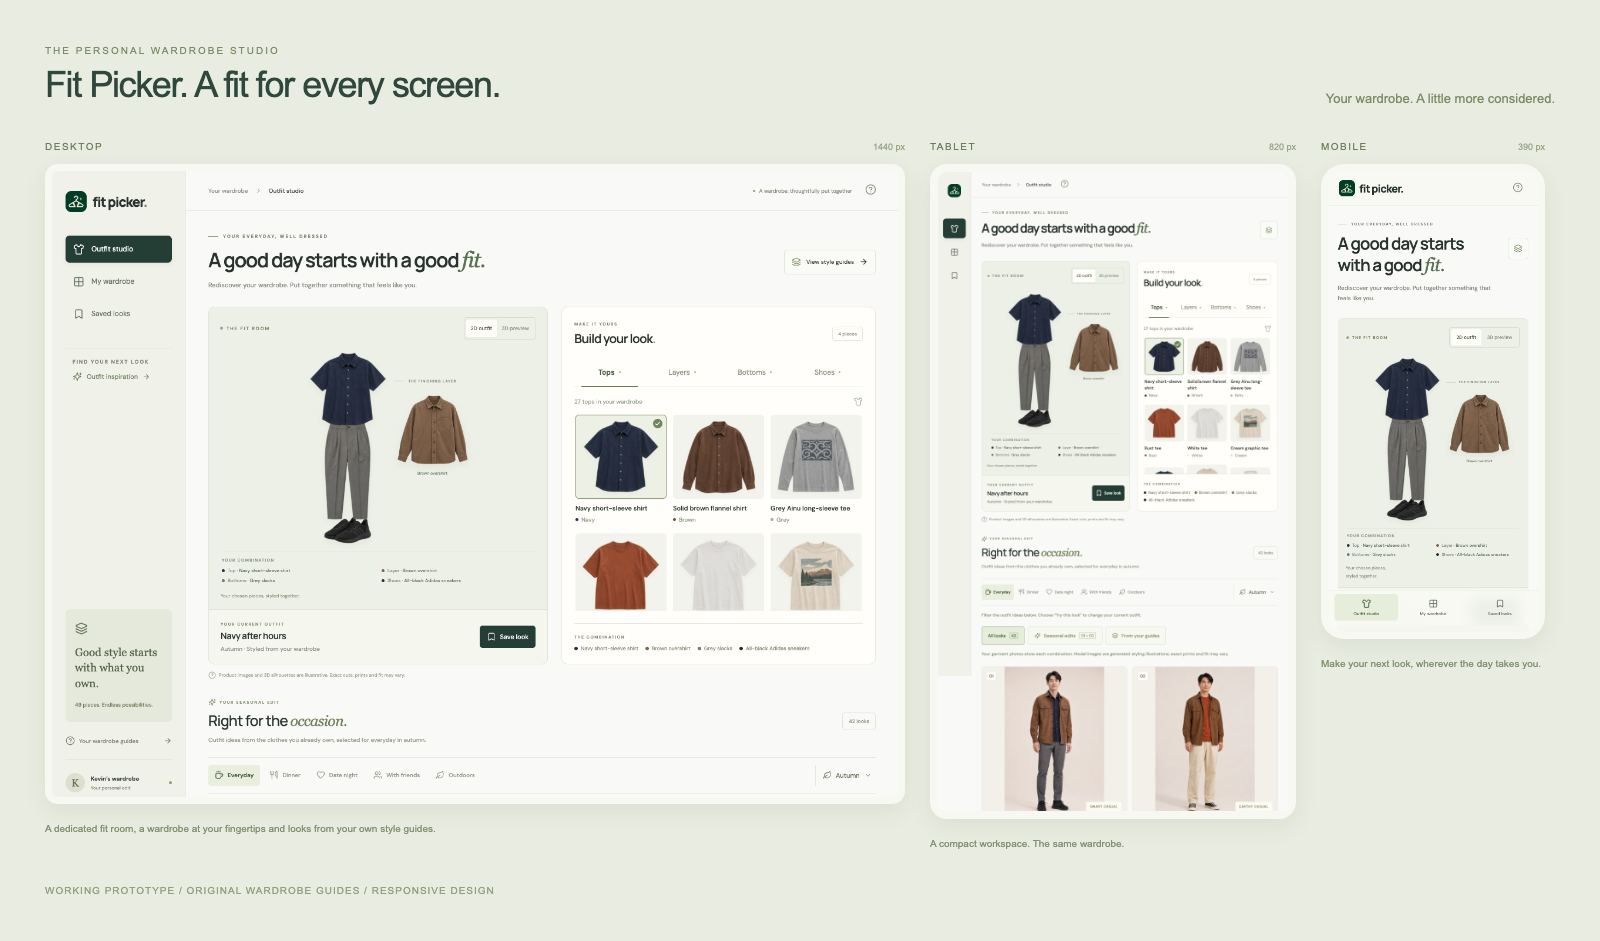
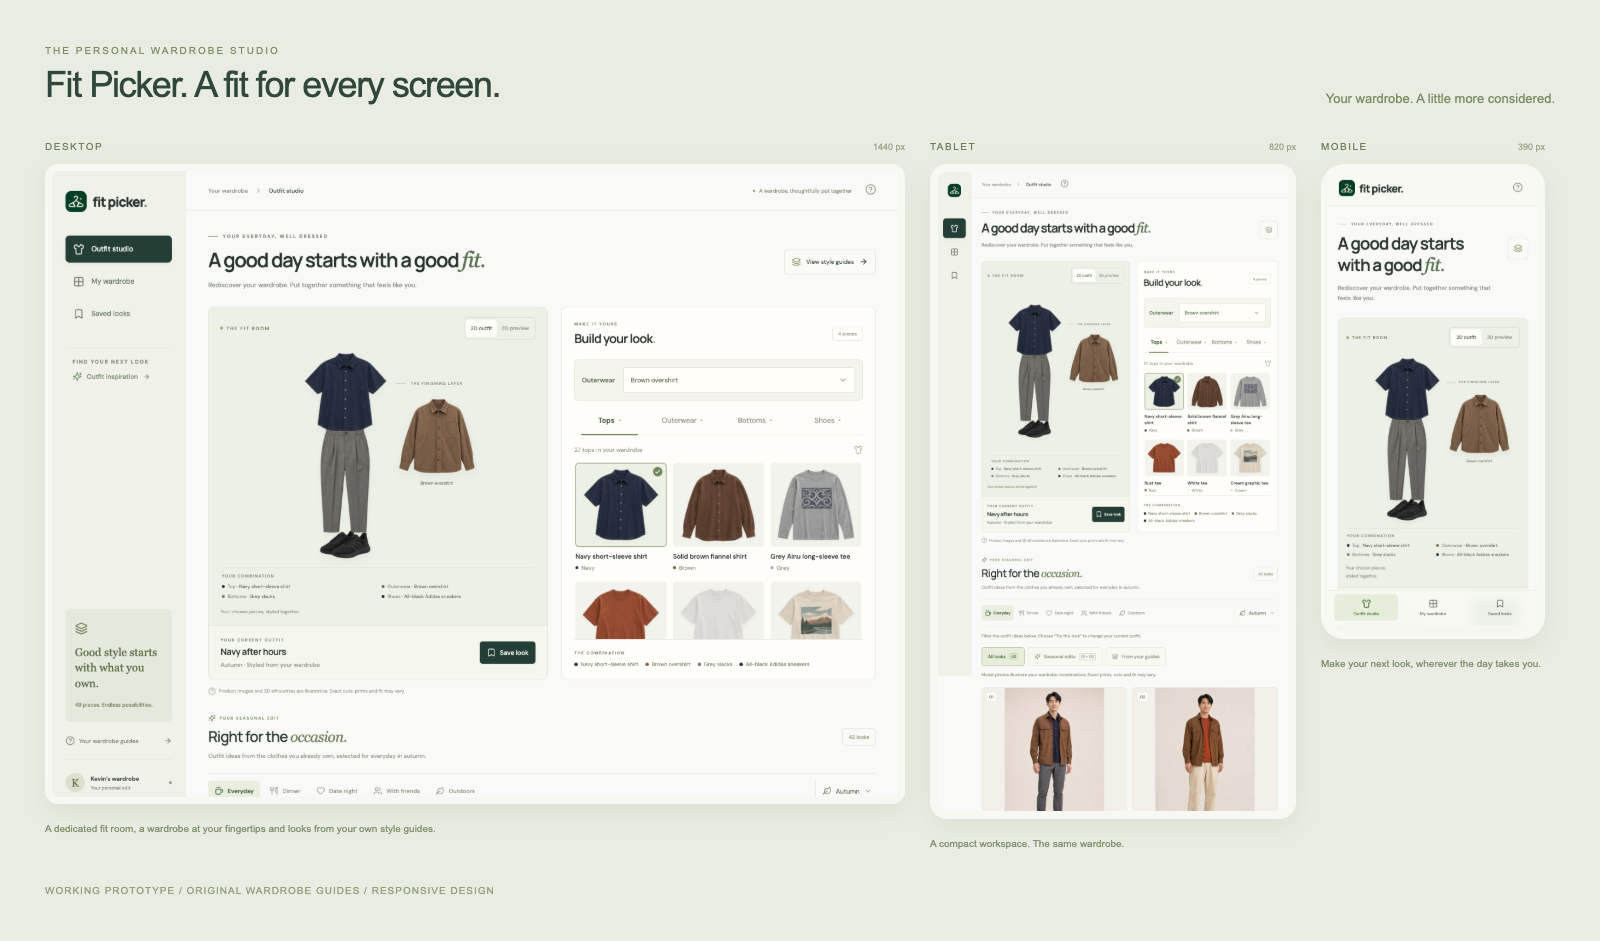
Verify mobile savings and label tablet navigation

diff --git a/src/App.tsx b/src/App.tsx
@@ -94,7 +94,7 @@ export default function App() {
       <div className="outfit-content"><span className="eyebrow">{label}</span><h3>{outfit.name}</h3><p>{outfit.subtitle}</p>{outfit.origin === 'styled' && <p className="outfit-reason">{outfit.note}</p>}<div className="look-swatches">{Object.values(outfit.items).map(id => <span key={id} style={{ background: byId.get(id)?.color }} title={byId.get(id)?.name}/>)}</div><button onClick={() => tryOutfit(outfit)}>Try this look <ArrowRight size={15}/></button></div>
     </article>
   }
-  const navigation = <>{([{ id: 'studio', name: 'Outfit studio', icon: Hanger }, { id: 'wardrobe', name: 'My wardrobe', icon: Grid2X2 }, { id: 'saved', name: 'Saved looks', icon: Bookmark }] as const).map(nav => <button key={nav.id} onClick={() => { setPage(nav.id); setSearch('') }} className={`nav-item ${page === nav.id ? 'active' : ''}`} aria-current={page === nav.id ? 'page' : undefined}><nav.icon size={19}/><span>{nav.name}</span>{nav.id === 'saved' && saved.length > 0 && <small>{saved.length}</small>}</button>)}</>
+  const navigation = <>{([{ id: 'studio', name: 'Outfit studio', icon: Hanger }, { id: 'wardrobe', name: 'My wardrobe', icon: Grid2X2 }, { id: 'saved', name: 'Saved looks', icon: Bookmark }] as const).map(nav => <button key={nav.id} aria-label={nav.name} title={nav.name} onClick={() => { setPage(nav.id); setSearch('') }} className={`nav-item ${page === nav.id ? 'active' : ''}`} aria-current={page === nav.id ? 'page' : undefined}><nav.icon size={19}/><span>{nav.name}</span>{nav.id === 'saved' && saved.length > 0 && <small>{saved.length}</small>}</button>)}</>
 
   return <div className="app-shell">
     <aside className="sidebar">
@@ -107,7 +107,7 @@ export default function App() {
     <div className="main-shell">
       <header className="topbar"><span className="breadcrumb">Your wardrobe <ChevronRight size={13}/> <strong>{page === 'studio' ? 'Outfit studio' : page === 'wardrobe' ? 'My wardrobe' : 'Saved looks'}</strong></span><span className="topbar-note"><span/> A wardrobe, thoughtfully put together</span><button className="mobile-brand" onClick={() => setPage('studio')}><img src="/icon-192.png" alt=""/>fit picker.</button><button className="help-button" aria-label="About Fit Picker" onClick={() => setModal('about')}><CircleHelp size={19}/></button></header>
       <main>
-        <div className="page-heading"><div><div className="eyebrow"><span className="tiny-line"/> YOUR EVERYDAY, WELL DRESSED</div><h1>{page === 'studio' ? <>A good day starts<br className="mobile-break"/> with a good <em>fit.</em></> : page === 'wardrobe' ? <>Your wardrobe, <em>considered.</em></> : <>Good looks, <em>on repeat.</em></>}</h1><p>{page === 'studio' ? 'Rediscover your wardrobe. Put together something that feels like you.' : page === 'wardrobe' ? 'Every piece from your seasonal guides, all in one place.' : 'Your favourite combinations, ready for the next time.'}</p></div><button className="guide-button" onClick={() => setModal('sources')}><Layers3 size={16}/><span>View style guides</span><ArrowRight size={15}/></button></div>
+        <div className="page-heading"><div><div className="eyebrow"><span className="tiny-line"/> YOUR EVERYDAY, WELL DRESSED</div><h1>{page === 'studio' ? <>A good day starts<br className="mobile-break"/> with a good <em>fit.</em></> : page === 'wardrobe' ? <>Your wardrobe, <em>considered.</em></> : <>Good looks, <em>on repeat.</em></>}</h1><p>{page === 'studio' ? 'Rediscover your wardrobe. Put together something that feels like you.' : page === 'wardrobe' ? 'Every piece from your seasonal guides, all in one place.' : 'Your favourite combinations, ready for the next time.'}</p></div><button className="guide-button" aria-label="View style guides" title="View style guides" onClick={() => setModal('sources')}><Layers3 size={16}/><span>View style guides</span><ArrowRight size={15}/></button></div>
 
 
 

diff --git a/docs/performance-review.md b/docs/performance-review.md
@@ -1,6 +1,6 @@
 # Personal-use performance review
 
-Measured 13 November 2026. Baseline production commit: `72fd3fe` (v0.4.0). Measurements use a cold Chromium context with iPhone 13 viewport/device scale, disabled HTTP cache, no network/CPU throttling and software WebGL. Transfer totals include response headers; local `blob:` image decoding contributes no network bytes. These are resource measurements, not benchmarks of a physical phone or battery life.
+Initial audit 13 November 2026; live before/after verification 14 November 2026 (Japan time). Baseline production commit: `72fd3fe` (v0.4.0). Measurements use a cold Chromium context with iPhone 13 viewport/device scale, disabled HTTP cache, no network/CPU throttling and software WebGL. Transfer totals include response headers; local `blob:` image decoding contributes no network bytes. These are resource measurements, not benchmarks of a physical phone or battery life.
 
 ## Baseline loading
 
@@ -15,6 +15,21 @@ Measured 13 November 2026. Baseline production commit: `72fd3fe` (v0.4.0). Measu
 Only six images intersected the initial phone viewport, but all 48 image elements had decoded. The entire top picker, composed recommendation images and three large model photos were loaded. Garment assets are already roughly 300 pixels wide; indiscriminately shrinking them further would hurt phone clarity. Model photos need responsive alternatives because current files are over 1000 pixels wide.
 
 The initial 2D page correctly avoids the Three.js chunk and all GLBs. Source-guide imports resolve to URLs: the three large PNG guides are not requested until their dialog opens. The existing six-card pagination and on-demand 3D rendering are also worth retaining.
+
+## Verified live release comparison — 14 November 2026
+
+The same script measured Cloudflare production immediately before and after v0.5.0, in fresh phone contexts with HTTP caching disabled. Full results are in `performance-metrics-v0.5.0.json`; reproduce with `FIT_PICKER_URL=https://fit-picker.kaikei-app.workers.dev/ node scripts/measure-mobile.mjs`.
+
+| Initial phone load | v0.4.0 | v0.5.0 |
+| --- | ---: | ---: |
+| Network requests | 45 | 11 |
+| Transferred bytes | 1,188,498 | 285,662 |
+| Image requests | 39 | 5 |
+| Image bytes | 1,021,517 | 117,327 |
+
+Initial transfer fell **76.0%** (about 1.19 MB to 0.29 MB), while the library expanded to 161 model photographs. No outfit portraits, 3D assets or full-size guide PNGs were fetched on startup. The selected 2D outfit remains eager. Card images use a 200-pixel near-viewport loading window and 400/800/1024-pixel WebP alternatives; the phone selected the 800-pixel photo when browsing. Guide previews total about 0.29 MB instead of loading 7.04 MB of originals in the dialog; full-size original links remain available.
+
+The mobile drawing buffer measured 528×600 pixels for a 352×400 CSS-pixel stage, confirming the 1.5 pixel-ratio cap. The complete unit suite (26 tests), full browser checks, responsive layouts and model/image failure fallbacks passed. These figures measure downloaded resources in emulation, not physical-phone load times or battery use.
 
 ## Implemented glTF optimizations
 
@@ -31,11 +46,11 @@ On screens at most 700 CSS pixels wide, the renderer caps pixel ratio at 1.5 rat
 
 Old/new model assets were rendered at the same mobile quality profile and visually compared; clothing, skin and hair appearance remained consistent. The optimized files loaded without page errors. The complete unit suite passed (24 tests at that point, including the coat regression).
 
-## Further changes with the best trade-off
+## Loading choices and further improvements
 
 1. Keep 2D as the default and 3D as an explicit choice. Render the 3D scene only after changes, as it already does. Avoid automatic rotation or an idle animation loop. [Three.js rendering on demand](https://threejs.org/manual/pages/rendering-on-demand.html).
-2. Serve model photos in several widths with accurate `srcset`/`sizes`, and defer offscreen garment cards. Keep the selected outfit's visible pieces eager. Prefer static, pre-generated images over generating them during phone use. [Responsive images](https://web.dev/learn/design/responsive-images), [image loading and decoding](https://web.dev/learn/performance/image-performance).
-3. Move the Google Fonts request from CSS `@import` into an early stylesheet link with preconnects, or use local WOFF2 subsets if measurement supports it. Current font bytes are modest; discovery/connection delay is the relevant issue. [Font loading guidance](https://web.dev/articles/font-best-practices).
+2. Implemented: responsive model photos with `srcset`/`sizes` and explicit offscreen deferral. The visible selected outfit stays eager. All model photos are static, pre-generated assets; no generation service runs during phone use. [Responsive images](https://web.dev/learn/design/responsive-images), [image loading and decoding](https://web.dev/learn/performance/image-performance).
+3. Implemented: the font request now uses an early stylesheet link and preconnects instead of CSS `@import`. Local WOFF2 subsets remain an option if later measurement supports them. Current font bytes are modest; discovery/connection delay is the relevant issue. [Font loading guidance](https://web.dev/articles/font-best-practices).
 4. Keep explicit disposal when a model is replaced or 3D closes. Textures have independent lifetimes; the bounded shared template cache is deliberate, while renderer resources should be released when unused. [Three.js disposal](https://threejs.org/manual/pages/how-to-dispose-of-objects.html).
 5. If offline support is added, cache a small app shell and favourites first. Avoid precaching the full photo/model library on installation.
 

diff --git a/docs/personal-roadmap.md b/docs/personal-roadmap.md
@@ -5,8 +5,9 @@ Keep the app centred on one person's wardrobe. These are suggestions, not featur
 1. **Saved-look backup and restore.** Export/import a small JSON file, with validation and merge/replace choices. Current favourites only live in one browser; this also makes moving between phone and desktop practical without starting an account system.
 2. **Worn recently.** A one-tap “Wore this” action and date, with optional fewer-repeats ordering. Keep history local initially.
 3. **Laundry and unavailable pieces.** Hide suggestions containing a piece in the wash, being repaired or packed away. Leave the inventory intact.
-4. **Hide a suggestion / pin favourites.** Personal feedback is more valuable here than adding hundreds of near-identical combinations. Let Kevin undo hidden items and reset this preference.
-5. **Temperature and rain.** Start with a manual temperature range and rain toggle so clothing advice remains usable without location permission or another network service. Weather lookup can stay optional.
-6. **A short packing list.** Pick a season, occasions and a few favourite outfits; deduplicate their clothes into a checklist.
+4. **Build around one item.** Lock the trousers or shoes you want to wear, then filter compatible outfit suggestions around that piece.
+5. **Hide a suggestion / pin favourites.** Personal feedback is more valuable here than adding hundreds of near-identical combinations. Let Kevin undo hidden items and reset this preference.
+6. **Temperature and rain.** Start with a manual temperature range and rain toggle so clothing advice remains usable without location permission or another network service. Weather lookup can stay optional.
+7. **A short packing list.** Pick a season, occasions and a few favourite outfits; deduplicate their clothes into a checklist.
 
 For phone use, retain 2D as the default, load 3D only on request, and avoid automatic turntable animation. Use responsive pre-generated photos rather than runtime AI generation. If offline installation is added later, cache a small shell and chosen favourites, not the entire image/model collection.
